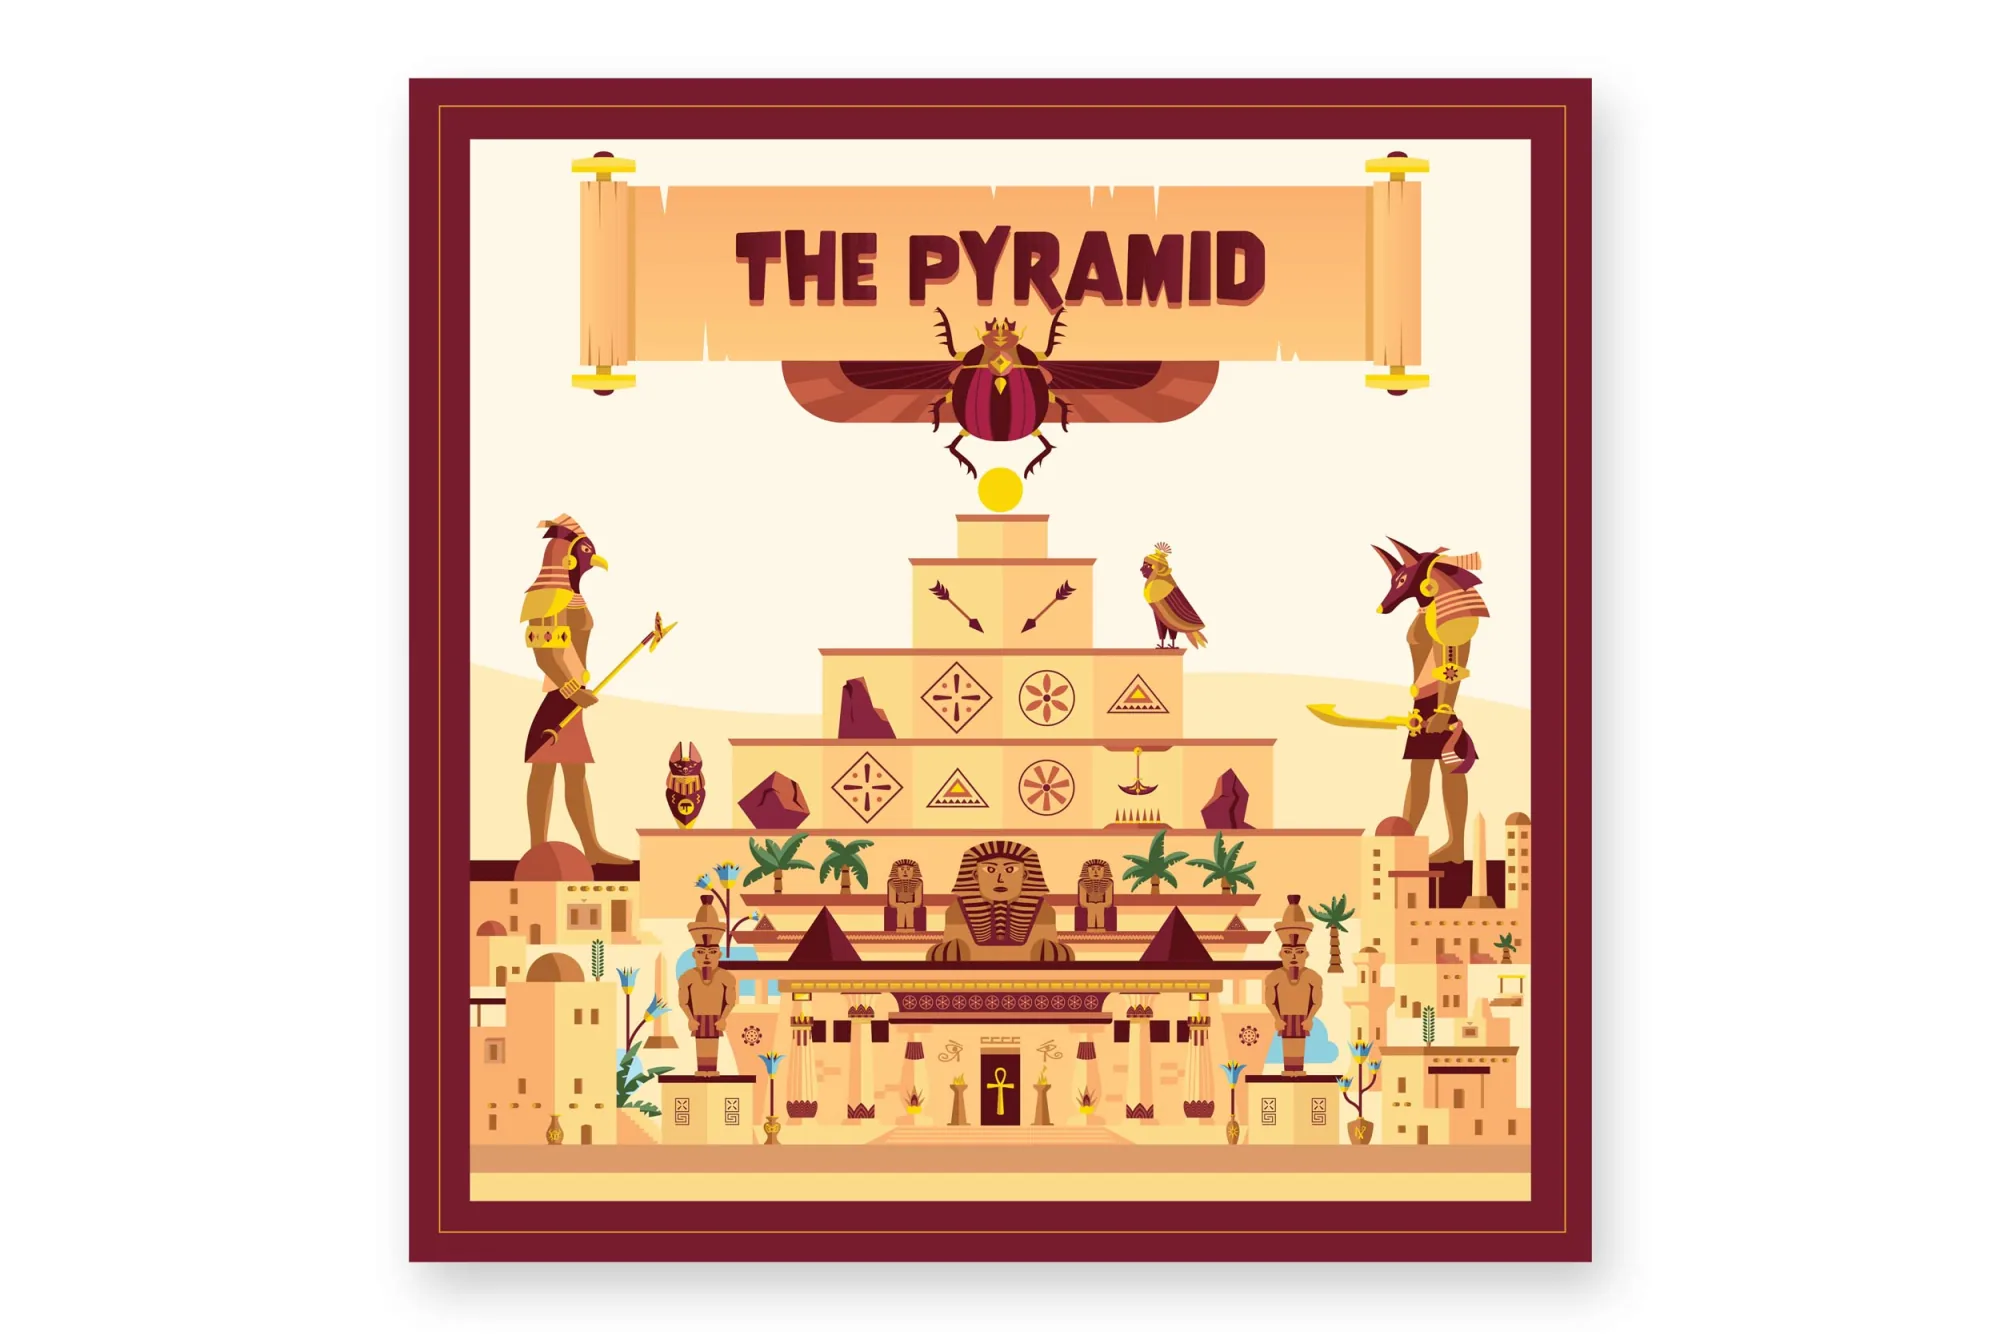
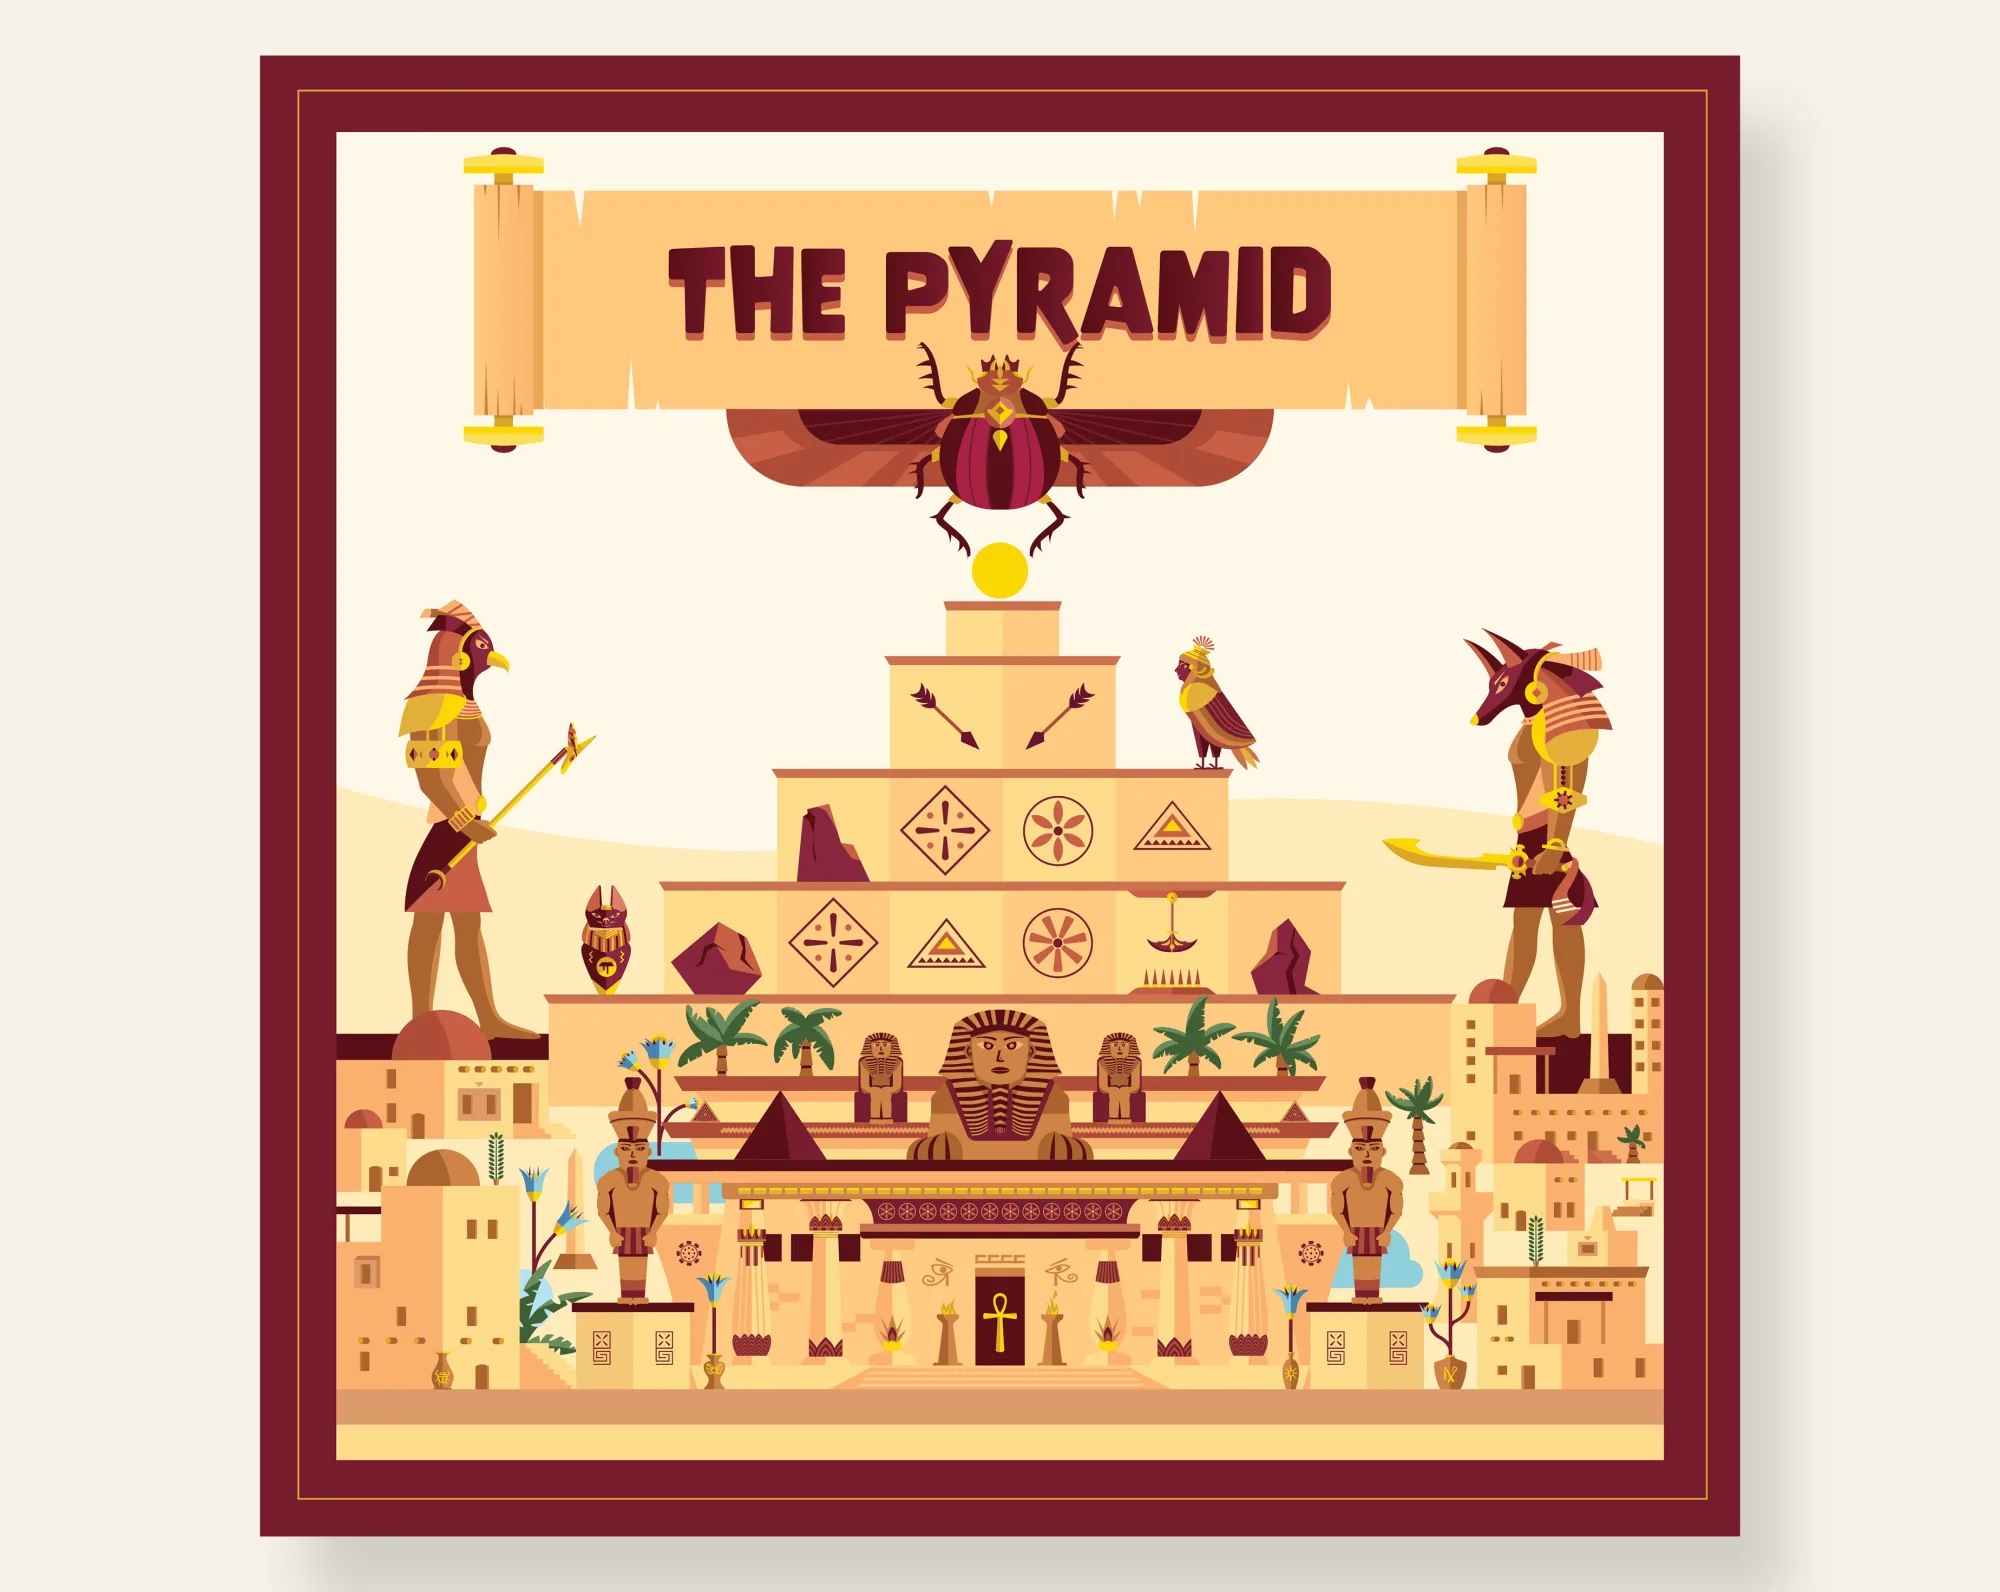
The Pyramid: new box cover artwork

diff --git a/work-the-pyramid.html b/work-the-pyramid.html
@@ -260,7 +260,7 @@
 
       <!-- Box cover artwork -->
       <figure class="mt-16 md:mt-24 reveal">
-        <img src="assets/pyramid/box-top-artwork.webp" alt="The Pyramid box cover &mdash; the title on a scroll above a winged scarab, a step pyramid flanked by statues of Horus and Anubis, and a sandstone city with a sphinx and temple entrance below" width="2000" height="1340" loading="lazy" decoding="async" class="w-full rounded-2xl border border-forest-deep/15" />
+        <img src="assets/pyramid/box-top-artwork.webp" alt="The Pyramid box cover &mdash; the title on a scroll above a winged scarab, a step pyramid flanked by statues of Horus and Anubis, and a sandstone city with a sphinx and temple entrance below" width="2000" height="1592" loading="lazy" decoding="async" class="w-full rounded-2xl border border-forest-deep/15" />
         <figcaption class="eyebrow text-forest-deep/40 mt-4">The box cover &mdash; the whole world on one lid</figcaption>
       </figure>
 
